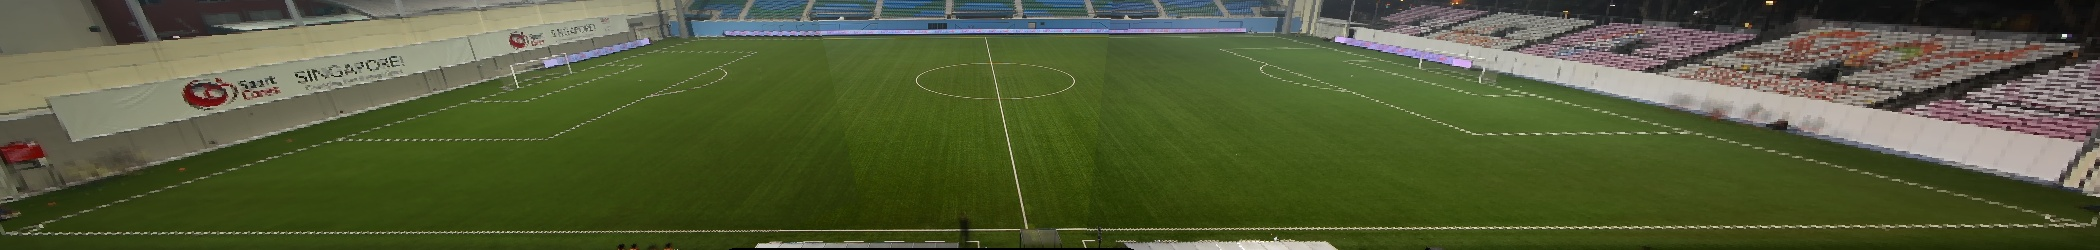
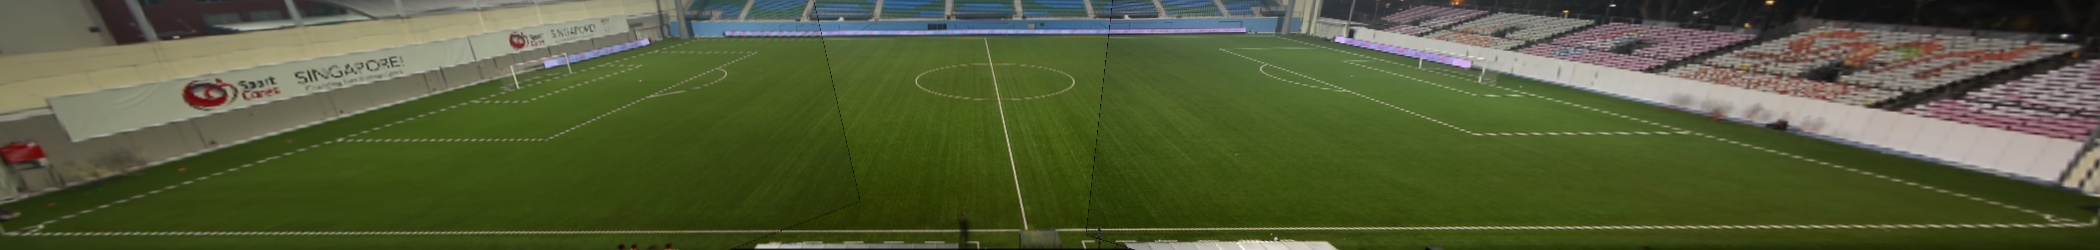
Use better warping mode for background substraction.

diff --git a/Stitcher.py b/Stitcher.py
@@ -219,9 +219,9 @@ class Stitcher(object):
         img_h = int(math.ceil(max_y))
 
         # Warp the new image given the homography from the old images.
-        base_img_warp = cv2.warpPerspective(base_img, move_h, (img_w, img_h), flags=cv2.INTER_NEAREST)
+        base_img_warp = cv2.warpPerspective(base_img, move_h, (img_w, img_h))
 
-        img_to_stitch_warp = cv2.warpPerspective(img_to_stitch, mod_inv_h, (img_w, img_h), flags=cv2.INTER_NEAREST)
+        img_to_stitch_warp = cv2.warpPerspective(img_to_stitch, mod_inv_h, (img_w, img_h))
 
         # Put the base image on an enlarged palette.
         enlarged_base_img = np.zeros((img_h, img_w, 3), np.uint8)
